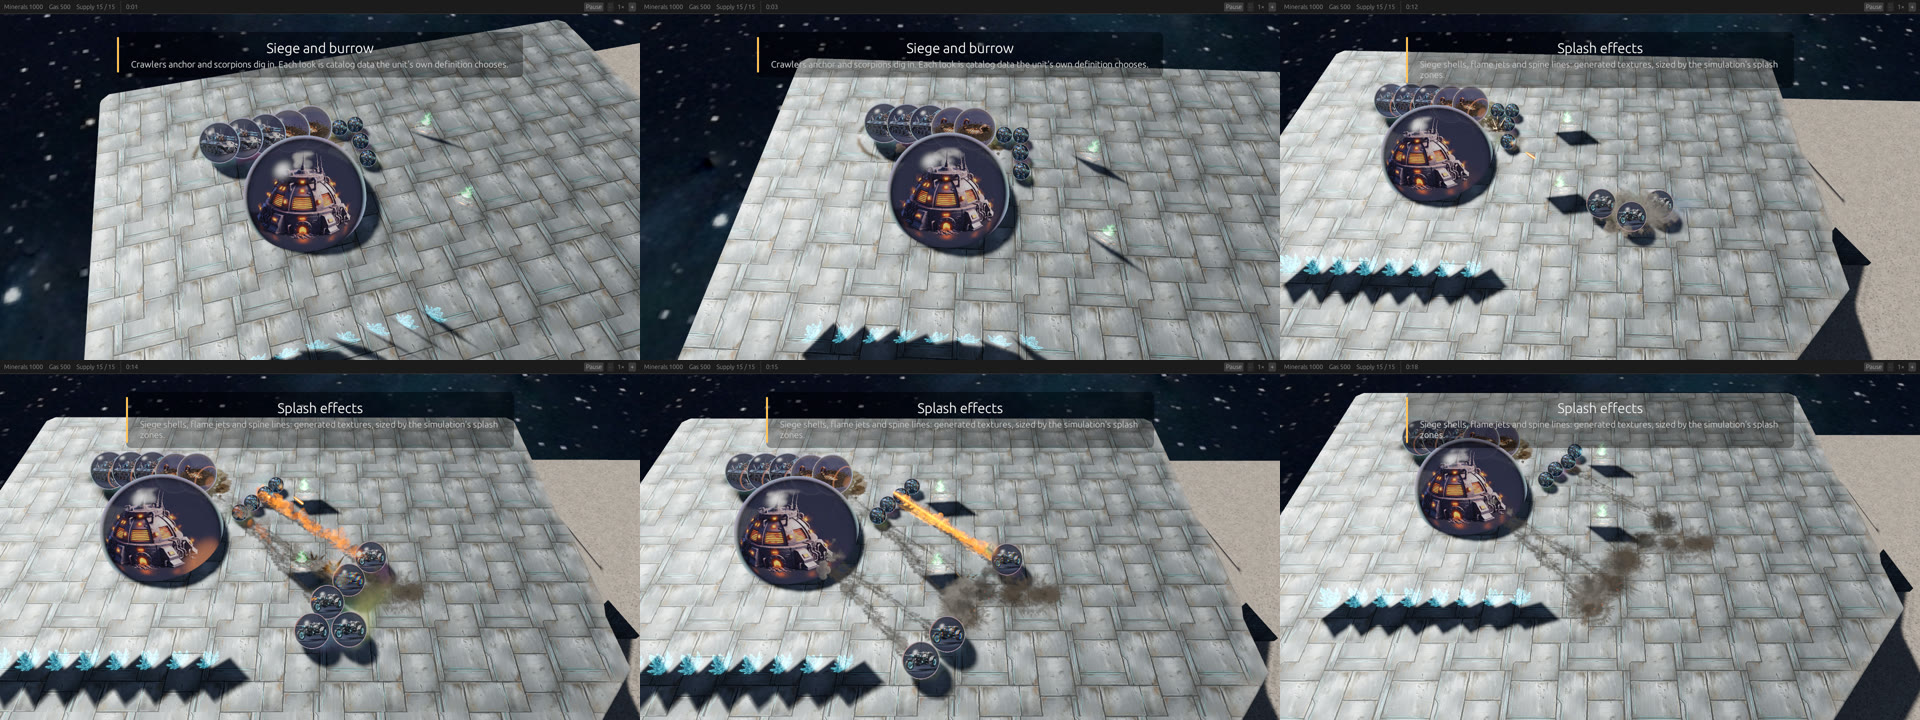
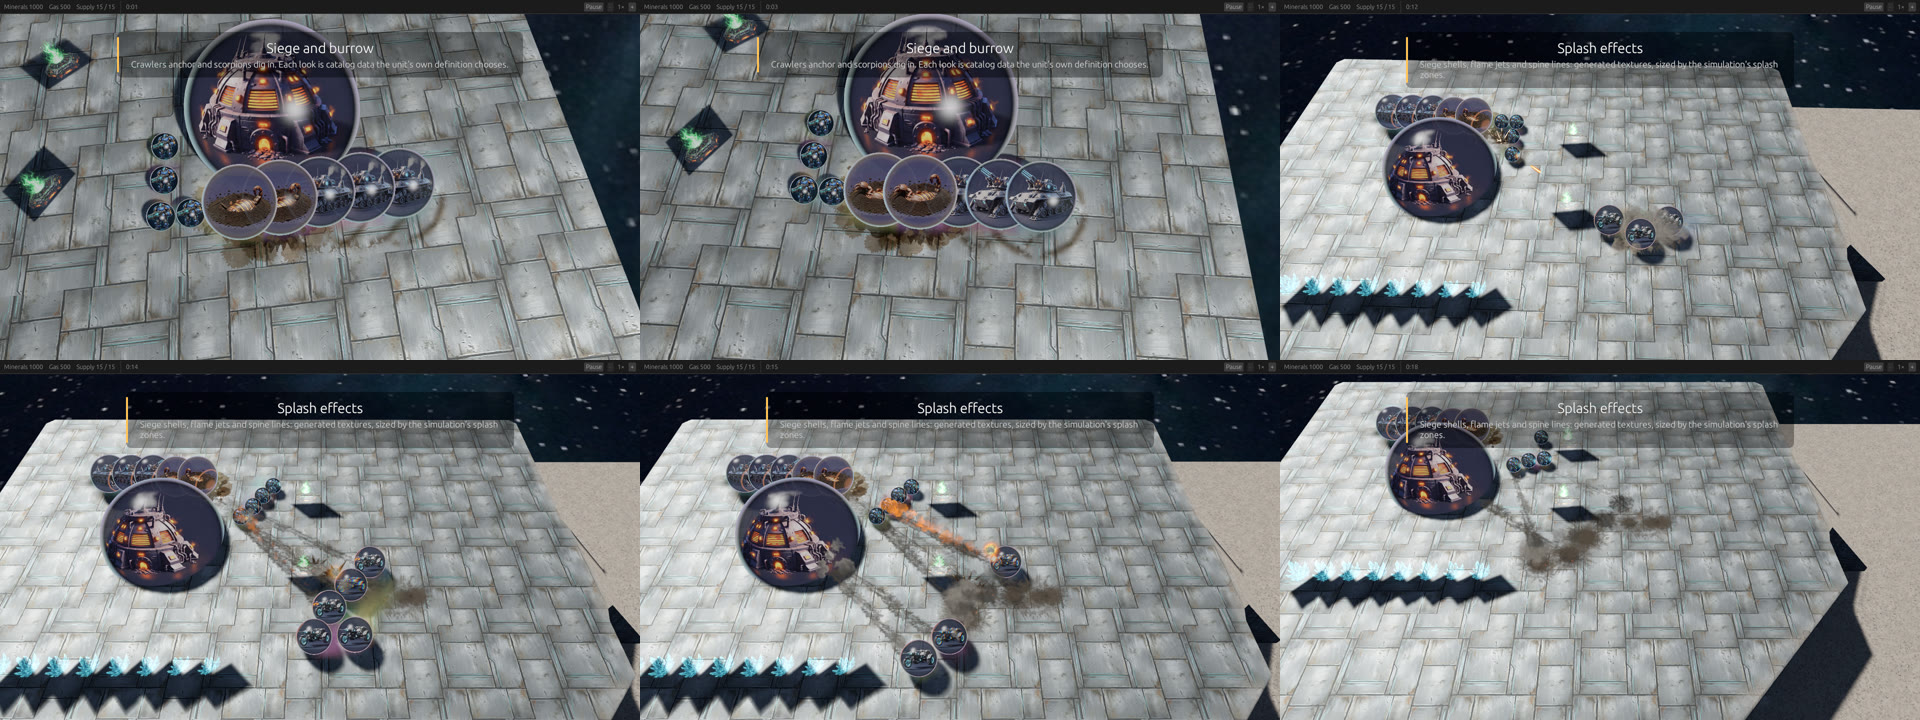
docs(effects WP14): post-merge render evidence (radv), take sheets regenerated
After merging main (structure-contact), both takes rendered on radv, one take per lock: the battle
take's scenes start on ticks 251, 305, 683 and 949 as in that plan's evidence; the effects take
spawns every asked-for effect on the same ticks as before, its entrench strip byte-identical; the
site assembles within budget (video 20.0 MB, teaser 4.46 MB at 640 px q50). The take sheet and the
siege sequence are regenerated from this render (the sheet's first two frames show the re-staged
entrench).

Claude-Session: https://claude.ai/code/session_01Tj7a5XZ4mBxWXnyoUg8xVU

diff --git a/docs/evidence/effects/review/independent_review_packet.md b/docs/evidence/effects/review/independent_review_packet.md
@@ -23,6 +23,7 @@ Please write the review of this round (if one is asked) to `independent_review_w
 | W14-7: the pool | Amendment 31, `frame_budget_wp14.md` and the `effects.ron` comment say a refusal turns away a whole new effect (not counted by class), that no Critical layer lacked a slot at 2 048, and that 6 144 serves the every-effect measure, not a battle |
 | W14-10: the mix's invariant | Reworded: the same sources in the same order; which units an event joins depends on the frame |
 | W14-8, W14-9 | No change |
+| Merge of main (`c06d8f5c`, structure-contact) | The battle take is main's retelling (player 1 wins); its scenes start on ticks 251, 305, 683 and 949 on radv, as in that plan's evidence. The effects take after the merge: the same scene ticks, every asked-for effect spawned, the entrench strip byte-identical. Pictures above are from the post-merge render; its site assembles within budget (video 20.0 MB of 26.2, teaser 4.46 MB of 4.72 at 640 px, quality 50) |
 
 ## WP14 (the showcase's effects take; every effect in the frame budget)
 
@@ -59,7 +60,7 @@ one. Pictures are on radv (the server's RX 580), release build, Xvfb 1280x720, u
 | Check | Result | Bar |
 |---|---|---|
 | Effects take, radv, full length: each scene shows what it asks for | `entrench`: `burrow_dig`, `burrow_mound`, `mode_seal_sweep`, `siege_anchor`; `siege`: `shell_impact`, `cannon_tracer`, `flame_line`, `spine_line`, `vehicle_wreck` (and `gauss_tracer`, `bullet_hit`) | all asked |
-| `battle` take unchanged | scenes start on ticks 251, 305, 683, 953, as in the inner-radius evidence | identical |
+| `battle` take unchanged by WP14 | scenes start on ticks 251, 305, 683, 953, as in the inner-radius evidence; after merging main's structure-contact (which retold that take), 251, 305, 683 (`march` 67 frames), 949, as in `docs/evidence/2026-11-18-structure-contact.md` §3 | identical to the take's own evidence |
 | Effect passes' GPU time, every effect at once (RX 580) | +0.54 ms mean over no effects (+0.57 with the plan's stress) | ≤ 1.5 ms |
 | Frame interval, the plan's §10.3 stress (radv, quiet) | p50 14.97, p99 25.20 ms | ≤ 17.1, ≤ 26.0 (recorded baseline +5 %, +10 %) |
 | Frame interval, every effect (beyond the plan's stress) | p50 17.15, p99 26.93 ms | over by 0.3 % and 3.6 % |

diff --git a/docs/evidence/effects/review/frame_budget_wp14.md b/docs/evidence/effects/review/frame_budget_wp14.md
@@ -114,7 +114,7 @@ gate on the other CPUs), so the times are upper bounds.
 
 | Take | Frames | Render s | s/frame | Scenes' effects |
 |---|---:|---:|---:|---|
-| `battle` (unchanged; `closing` moved out) | 1 222 | 1 811.7 | 1.48 | its scenes start on ticks 251, 305, 683, 953 as before |
+| `battle` (unchanged; `closing` moved out) | 1 222 | 1 811.7 | 1.48 | its scenes start on ticks 251, 305, 683, 953, as in the inner-radius evidence (before main's structure-contact retelling; after merging it, radv gives 251, 305, 683, 949, as in that plan's evidence) |
 | `effects` | 591 | 676.3 | 1.14 | every asked-for effect shown (`entrench`: 4 of 4; `siege`: 5 of 5, plus `gauss_tracer`, `bullet_hit`) |
 
 The effects take costs 0.77 of the battle take per frame. Site: video 19.5 MB (budget 26.2 MB), teaser 4.26 MB at
